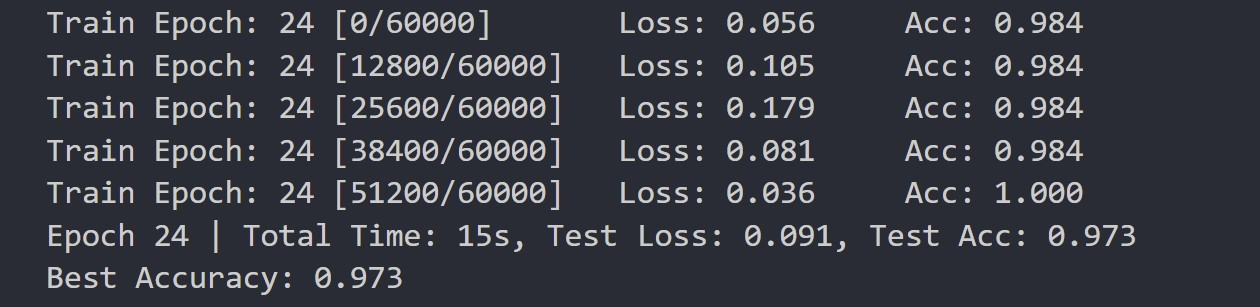
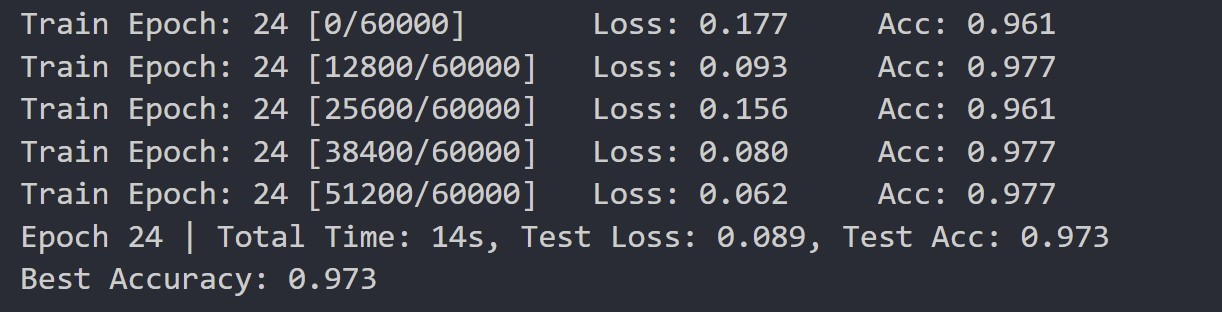
update hw1 report

diff --git a/Hw1/hw1_report.md b/Hw1/hw1_report.md
@@ -159,10 +159,12 @@ loss = criterion.forward(outputs, onehot_encoding(targets, 10))
 
 ![](result/step4_best_1.jpg)
 
-最后一轮迭代中测试集损失为0.091，准确率为97.3%，最终模型的最佳准确率为97.3%，与迭代15次的双隐层MLP相比有所提升。由于模型此时具有较好的收敛性，随着迭代次数增加，模型的准确率会有所上升，但增速逐渐放缓，即如果需要提升同样的准确率，需要的迭代轮数会越多。
+最后一轮迭代中测试集损失为0.089，准确率为97.3%，最终模型的最佳准确率为97.3%，与迭代15次的双隐层MLP相比有所提升。由于模型此时具有较好的收敛性，随着迭代次数增加，模型的准确率会有所上升，但增速逐渐放缓，即如果需要提升同样的准确率，需要的迭代轮数会越多。
 
 绘制训练集和测试集上的损失和准确率曲线如下图所示：
 
 ![](result/step4_best_2.jpg)
 
 ![](result/step4_best_3.jpg)
+
+值得注意的是，最后几轮迭代中，模型在训练集上的平均效果要略由于测试集上的效果（即损失更小，准确率更高），出现了过拟合的迹象。尽管此处二者差异并不大，但可以预见的是，如果迭代轮数无限大，很有可能会出现过拟合的情况。
